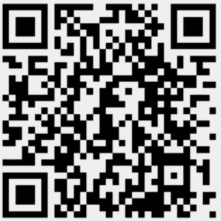
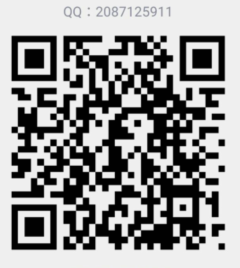
Site updated: 2020-12-25 20:32:36

diff --git a/index.html b/index.html
@@ -82,12 +82,9 @@
 				
 					<a class="github" target="_blank" href="https://github.com/SeaCat666" title="github"><i class="icon-github"></i></a>
 		        
-					<a class="weibo" target="_blank" href="#" title="QQ"><img src="img/qq.png" alt="QQ" style="width: 100%;"> </a>
+					<a class="weibo" target="_blank" href="#" title="QQ"><img src="img/qq.png" alt="QQ" style="width: 100%;"> 
+            <img src="img/qqewm.png" alt="qq" class="qqewm"></a>
 		        
-      </div>
-      <div class="qqewm">
-        <p>qq:2087125911</p>
-        <img src="img/qqewm.png" alt="qq">
       </div>
 		</nav>
 	</header>		
